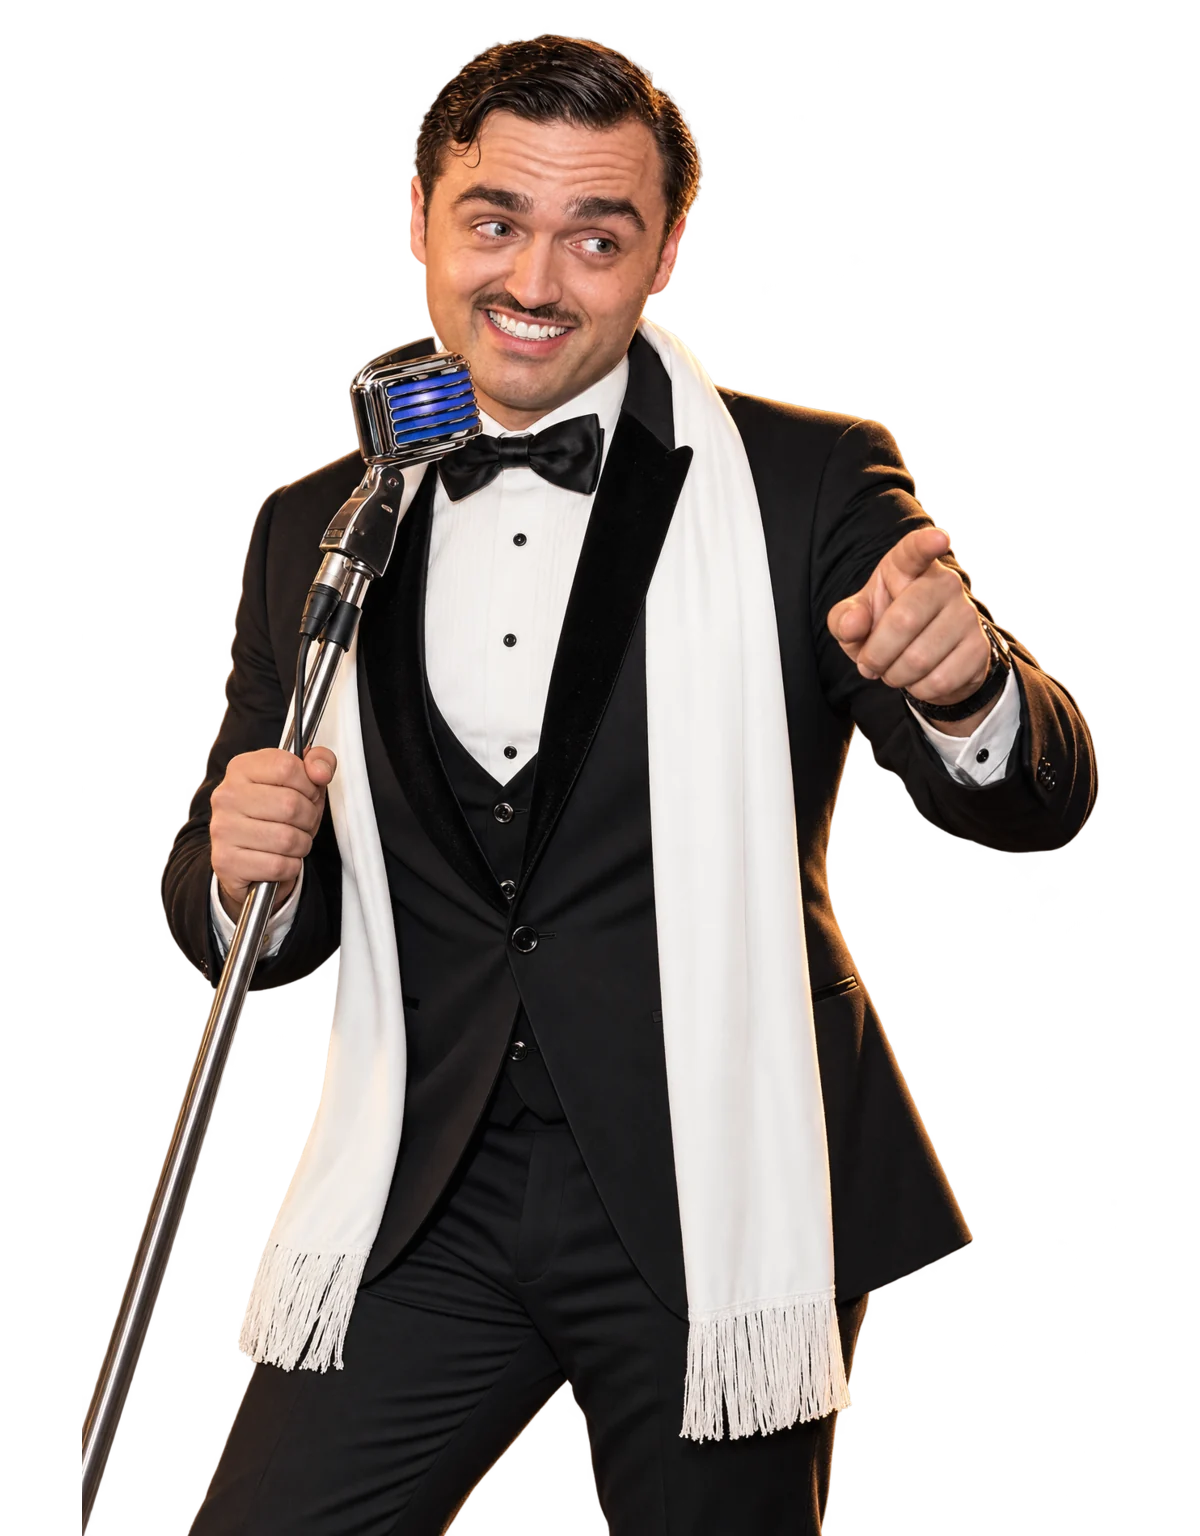
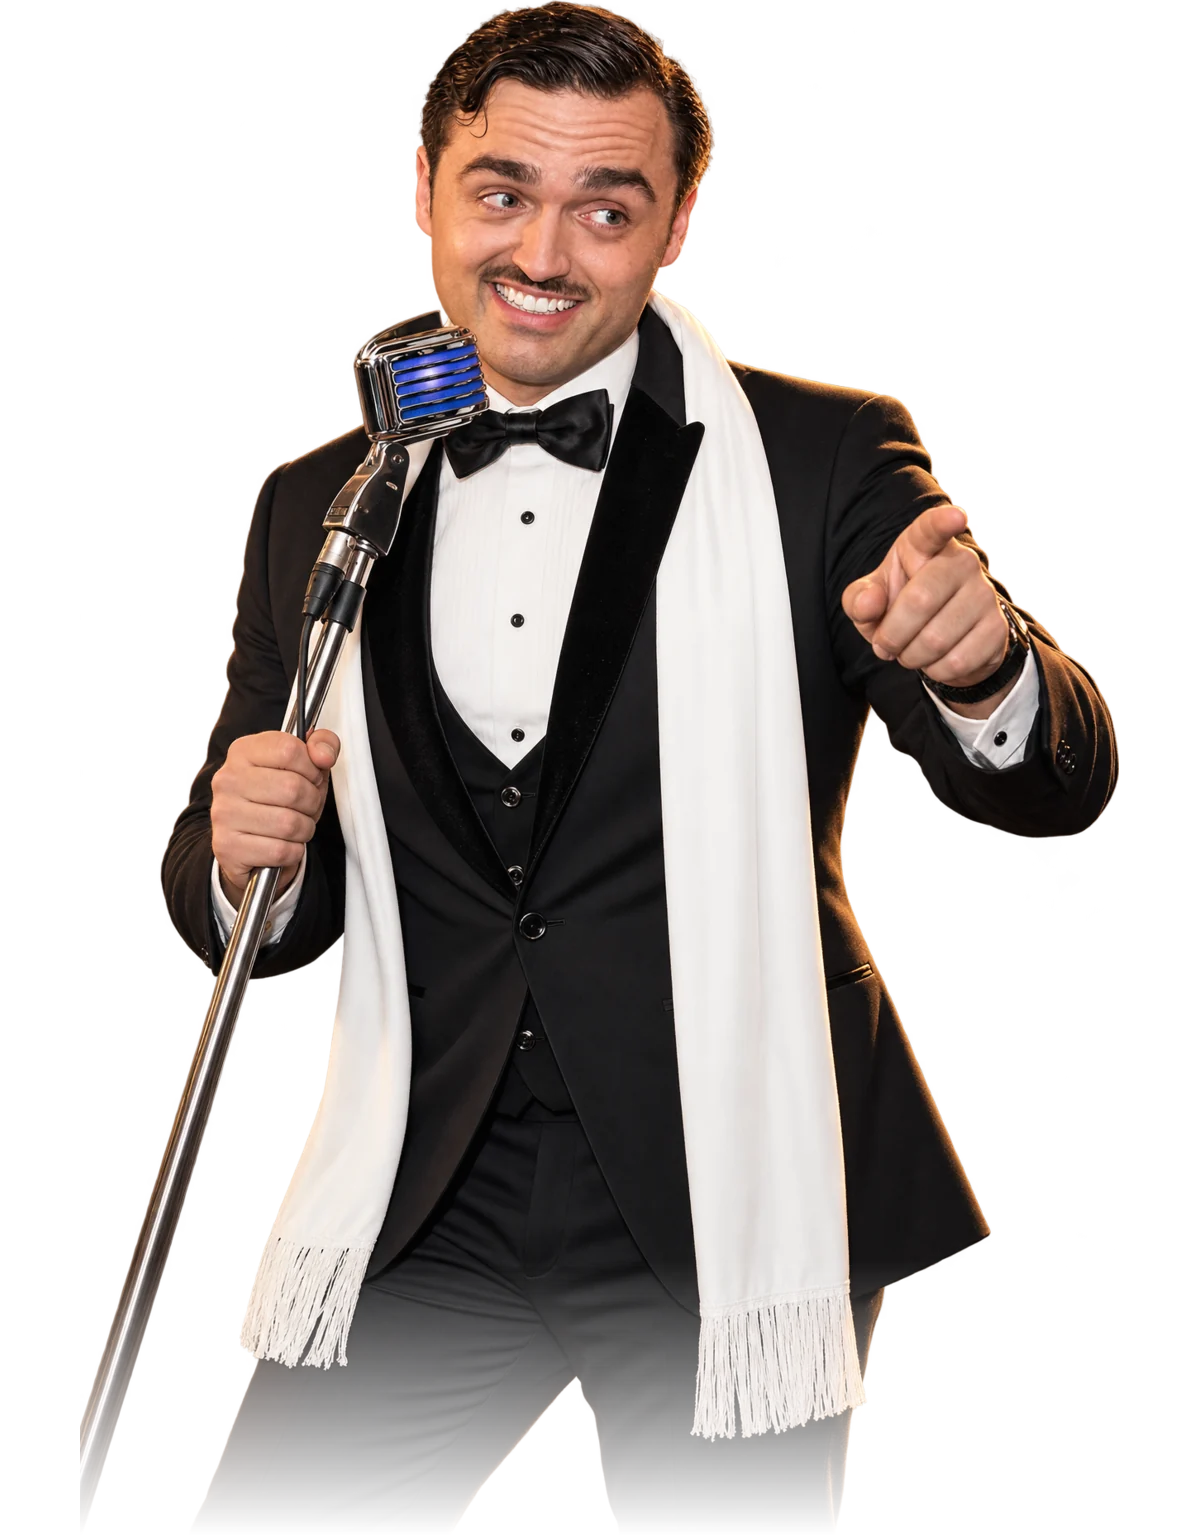
Hero : halo libre autour des silhouettes, Grease refait, bandeau en étiquette fine
- Fix « on sent la carte » : le mask-image CSS tranchait le halo (drop-shadow) au rectangle
  de l'image. Masque retiré; le fondu du bas est intégré aux fichiers (sources/build.sh)
- Halo adouci en deux couches
- Rockeur façon Grease : rasé de près, banane gominée, demi-sourire ténébreux
- Bandeau : capitales espacées entre deux filets dorés, fond sombre sans bord net
- images/hero/sources/build.sh : régénère les découpes; changer une pose = changer une ligne

diff --git a/css/refonte.css b/css/refonte.css
@@ -170,9 +170,8 @@ header.nav-hidden {
     opacity: 0;
     filter: brightness(0.66) saturate(0.9);
     z-index: calc(10 - var(--d));   /* --d = distance au centre : le centre est devant */
-    /* le bas de la découpe (coupe nette aux cuisses) fond avant d'atteindre le manche */
-    -webkit-mask-image: linear-gradient(to top, transparent 1%, #000 17%);
-    mask-image: linear-gradient(to top, transparent 1%, #000 17%);
+    /* Pas de mask-image ici : un masque découpe aussi le halo (drop-shadow) au rectangle de
+       l'image, et on « sent la carte ». Le fondu du bas est intégré aux fichiers (sources/build.sh). */
     transition: transform 1s cubic-bezier(0.3, 1.45, 0.5, 1), opacity 0.35s ease, filter 0.5s ease;
     transition-delay: calc(var(--o) * 130ms), calc(var(--o) * 130ms), 0s; /* les lames sortent une à une */
     pointer-events: none;           /* le survol est calculé par l'angle de la souris, pas par les rectangles */
@@ -190,7 +189,7 @@ header.nav-hidden {
 }
 .cam-stage.is-open .cam-fig.is-active {
     transform: rotate(calc(var(--k) * var(--spread))) scale(1.05);
-    filter: brightness(1.05) saturate(1) drop-shadow(0 0 28px rgba(212, 175, 55, 0.28));
+    filter: brightness(1.04) saturate(1) drop-shadow(0 0 14px rgba(212, 175, 55, 0.22)) drop-shadow(0 0 46px rgba(212, 175, 55, 0.16));
     z-index: 20;
 }
 
@@ -235,30 +234,34 @@ html:not(.js-rv) .cam-band {
     bottom: calc(var(--knife-b) - var(--knife-h) * 0.3); /* le rivet des lames tombe au milieu du manche */
     filter: drop-shadow(0 16px 26px rgba(0, 0, 0, 0.75));
 }
-/* version « bandeau » : bande noire, filets dorés, inscription */
+/* version « bandeau » : étiquette fine — capitales espacées entre deux filets dorés, sans boîte */
 .cam-band {
-    width: calc(var(--fig-h) * 1.75);
-    max-width: 100vw;
+    width: calc(var(--fig-h) * 1.5);
+    max-width: 92vw;
     height: var(--knife-h);
-    display: grid;
-    place-items: center;
-    background: #050505;
-    border-top: 1px solid rgba(212, 175, 55, 0.65);
-    border-bottom: 1px solid rgba(212, 175, 55, 0.65);
-    box-shadow: 0 -18px 30px rgba(5, 5, 5, 0.85);
-    -webkit-mask-image: linear-gradient(to right, transparent, #000 14%, #000 86%, transparent);
-    mask-image: linear-gradient(to right, transparent, #000 14%, #000 86%, transparent);
+    display: flex;
+    align-items: center;
+    gap: 1.4rem;
+    /* fond sombre sans bord net : l'inscription reste lisible devant une jambe claire */
+    background: radial-gradient(ellipse 62% 140% at 50% 50%, rgba(5, 5, 5, 0.94) 55%, transparent 100%);
 }
+.cam-band::before,
+.cam-band::after {
+    content: '';
+    flex: 1;
+    height: 1px;
+    background: linear-gradient(to right, transparent, rgba(212, 175, 55, 0.8));
+}
+.cam-band::after { transform: scaleX(-1); }
 .cam-band span {
-    font-family: 'Playfair Display', serif;
-    font-style: italic;
-    font-size: clamp(1rem, calc(var(--knife-h) * 0.34), 2rem);
-    letter-spacing: 0.08em;
+    font-family: 'Poppins', sans-serif;
+    font-weight: 500;
+    font-size: clamp(0.72rem, calc(var(--knife-h) * 0.17), 1.05rem);
+    letter-spacing: 0.42em;
+    text-transform: uppercase;
     white-space: nowrap;
-    background: linear-gradient(to right, #bf953f, #fcf6ba, #b38728, #fbf5b7, #aa771c);
-    -webkit-background-clip: text;
-    background-clip: text;
-    -webkit-text-fill-color: transparent;
+    color: var(--secondary-color);
+    padding-left: 0.42em; /* compense l'espacement après la dernière lettre */
 }
 .cam-hero[data-base="couteau"] { --knife-b: 7svh; } /* le manche est plus haut que le bandeau : on le remonte */
 .cam-hero[data-base="bandeau"] .cam-knife,

diff --git a/index.html b/index.html
@@ -183,7 +183,7 @@
             <img class="cam-fig" style="--k:-2;--d:2;--o:1;--side:-1" data-role="Maître de cirque" width="1200" height="1536" src="images/hero/cirque.webp" alt="Dominic en maître de cirque maquillé, redingote rouge et haut-de-forme" draggable="false">
             <img class="cam-fig" style="--k:-1;--d:1;--o:2;--side:-1" data-role="Crooner" width="1200" height="1536" src="images/hero/crooner.webp" alt="Dominic en crooner, foulard blanc et micro rétro" draggable="false">
             <img class="cam-fig is-active" style="--k:0;--d:0;--o:3;--side:-1" data-role="Animateur" width="1200" height="1536" src="images/hero/dominic.webp" alt="Dominic St-Laurent, veston bourgogne, micro en main" fetchpriority="high" draggable="false">
-            <img class="cam-fig" style="--k:1;--d:1;--o:4;--side:1" data-role="Rockeur" width="1200" height="1536" src="images/hero/rockabilly.webp" alt="Dominic en blouson de cuir façon Grease" draggable="false">
+            <img class="cam-fig" style="--k:1;--d:1;--o:4;--side:1" data-role="Rockeur" width="1200" height="1536" src="images/hero/rockabilly.webp" alt="Dominic en rockeur façon Grease, rasé de près, cheveux gominés" draggable="false">
             <img class="cam-fig" style="--k:2;--d:2;--o:5;--side:1" data-role="DJ" width="1200" height="1536" src="images/hero/dj.webp" alt="Dominic en DJ, écouteurs et lunettes fumées" draggable="false">
             <img class="cam-fig" style="--k:3;--d:3;--o:6;--side:1" data-role="Roi du disco" width="1200" height="1536" src="images/hero/disco.webp" alt="Dominic en chemise dorée disco" draggable="false">
             <img class="cam-fig" style="--k:4;--d:4;--o:7;--side:1" data-role="Personnage loufoque" width="1200" height="1536" src="images/hero/loufoque.webp" alt="Dominic en personnage loufoque, combinaison argentée rétro" draggable="false">
